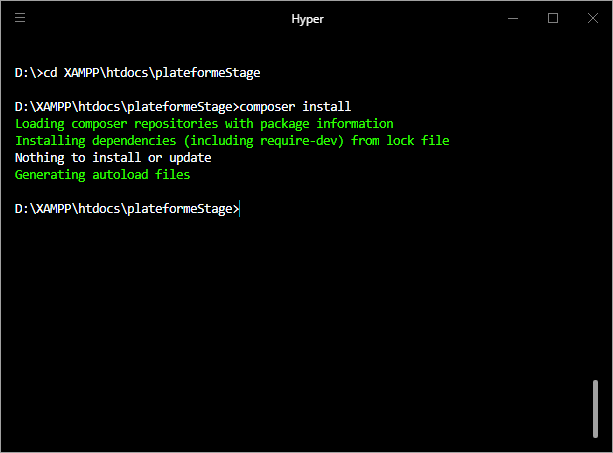
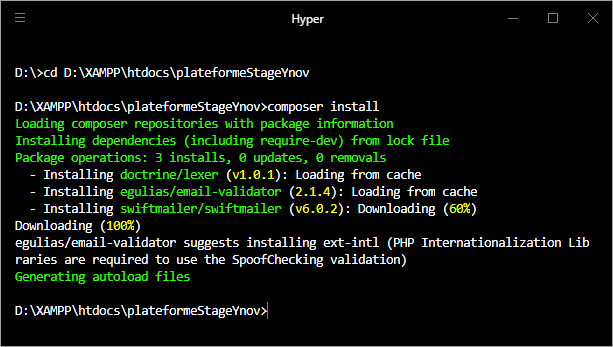
title page + update img & readme + move files
+ add title to index.php
+ new screen for composerIntall
+ new indication for readme
# Move SQL file to SQL docs folder

diff --git a/index.php b/index.php
@@ -11,7 +11,7 @@
 <html lang="fr" dir="ltr">
     <head>
         <meta charset="utf-8">
-        <title></title>
+        <title>Profil Ynov</title>
     </head>
     <body>
         <pre><?=$bddoffres[1]['title']?></pre>

diff --git a/README.md b/README.md
@@ -12,9 +12,13 @@ Plutôt que de demander aux entreprises de soumettre des offres de stages qui so
 	1. Mettre à jour ComposerPHP
 		1. Ouvrir le dossier du repo ```cd chemin/du/repo```
 		2. Installer les dépendences ```composer install```
-		  ![Image of Yaktocat](https://raw.githubusercontent.com/MrZyr0/plateformeStageYnov/master/public/img/screenInstall/composerInstall.PNG)
+
+
+		  ![composerInstall](https://raw.githubusercontent.com/MrZyr0/plateformeStageYnov/master/public/img/screenInstall/composerInstall.PNG)
+
+
+
 3. Importer la base de donnée
-	1. Ouvrir votre 
 
 
 
